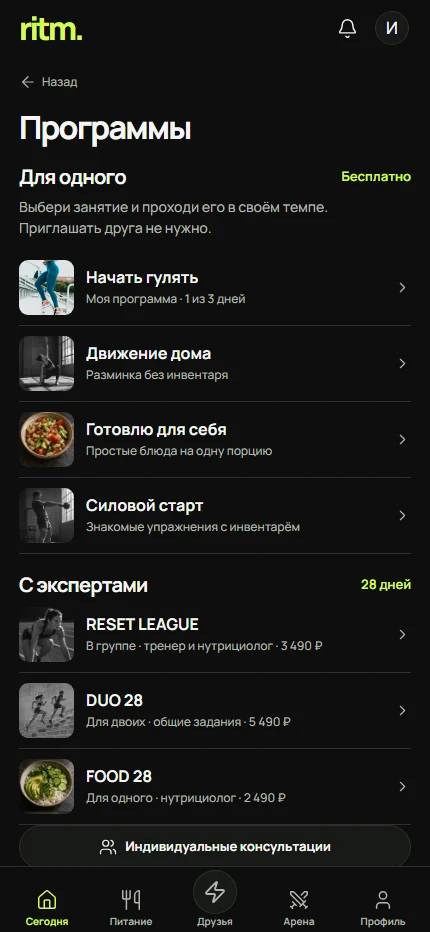
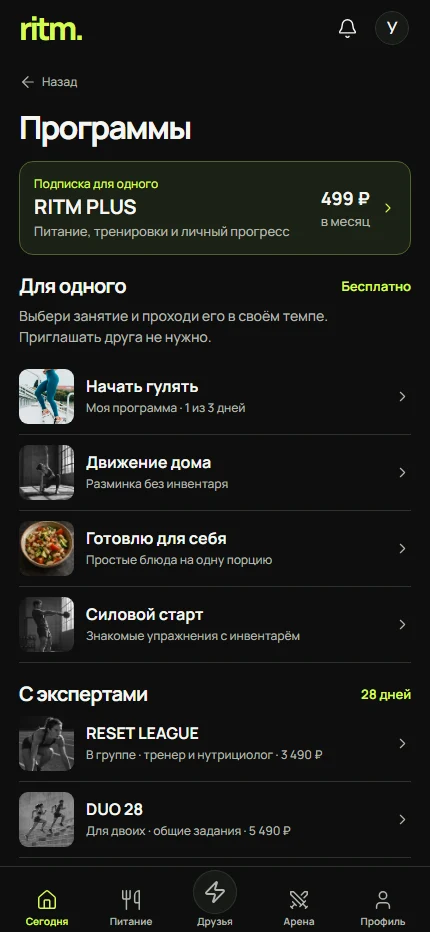
Show the individual RITM PLUS demo price and record interest

diff --git a/docs/meeting/screens/index.html b/docs/meeting/screens/index.html
@@ -1,2 +1,3 @@
 <!DOCTYPE html>
-<html lang="ru"><meta charset="utf-8"/><meta content="width=device-width,initial-scale=1" name="viewport"/><title>ritm. — Экраны приложения</title><link href="../assets/fonts.css" rel="stylesheet"/><style>*{box-sizing:border-box}body{margin:0 auto;background:#0d0e0d;color:#f5f6f2;max-width:1100px;padding:24px 18px 70px;font:500 15px/1.45 "Manrope Variable",sans-serif}header{display:flex;align-items:center;justify-content:space-between}header b{font-size:30px;letter-spacing:-.08em;color:#d5fc53}a{color:#d5fc53;text-underline-offset:.2em}h1{letter-spacing:-.05em;font-size:clamp(31px,6vw,54px);line-height:1.1}h2{border-top:1px solid #353831;padding-top:20px;margin:30px 0 12px}.grid{display:grid;grid-template-columns:repeat(auto-fit,minmax(min(158px,44%),1fr));gap:15px}.image{display:block;max-width:240px;border-radius:14px;overflow:hidden;border:1px solid #343930}img{display:block;width:100%;height:auto}h3{font-size:15px;margin:8px 0 1px}p{margin:4px 0;color:#b1b6ac;font-size:13px}article>p a{display:inline-block;padding:5px 0}</style><header><b>ritm.</b><a href="../?screen=programs">Открыть приложение ↗</a></header><h1>Экраны RITM</h1><p>Снимки работающего приложения. Нажми на экран, чтобы рассмотреть детали.</p><a href="RITM-meeting.pdf">PDF для встречи · Founder Preview 1.0</a><section id="solo"><h2>Начать самостоятельно</h2><div class="grid"><article><a class="image" href="solo-programs-390.webp"><img alt="Выбрать программу для себя" loading="lazy" src="solo-programs-390.webp"/></a><h3>Выбрать программу для себя</h3><p><a href="solo-programs-375.webp">375 px</a> · <a href="solo-programs-390.webp">390 px</a> · <a href="solo-programs-430.webp">430 px</a></p></article><article><a class="image" href="solo-question-390.webp"><img alt="Получить подсказку по двум ответам" loading="lazy" src="solo-question-390.webp"/></a><h3>Получить подсказку по двум ответам</h3><p><a href="solo-question-375.webp">375 px</a> · <a href="solo-question-390.webp">390 px</a> · <a href="solo-question-430.webp">430 px</a></p></article><article><a class="image" href="solo-food-390.webp"><img alt="Выбрать блюдо на одного" loading="lazy" src="solo-food-390.webp"/></a><h3>Выбрать блюдо на одного</h3><p><a href="solo-food-375.webp">375 px</a> · <a href="solo-food-390.webp">390 px</a> · <a href="solo-food-430.webp">430 px</a></p></article><article><a class="image" href="solo-friends-390.webp"><img alt="Предложить другу выбрать ход" loading="lazy" src="solo-friends-390.webp"/></a><h3>Предложить другу выбрать ход</h3><p><a href="solo-friends-375.webp">375 px</a> · <a href="solo-friends-390.webp">390 px</a> · <a href="solo-friends-430.webp">430 px</a></p></article></div></section><section><h2>Первый вход</h2><div class="grid"><article><a class="image" href="welcome-390.webp"><img alt="Первое открытие" loading="lazy" src="welcome-390.webp"/></a><h3>Первое открытие</h3><p><a href="welcome-375.webp">375 px</a> · <a href="welcome-390.webp">390 px</a> · <a href="welcome-430.webp">430 px</a></p></article><article><a class="image" href="invite-code-390.webp"><img alt="Вход по приглашению" loading="lazy" src="invite-code-390.webp"/></a><h3>Вход по приглашению</h3><p><a href="invite-code-390.webp">390 px</a></p></article><article><a class="image" href="start-1-390.webp"><img alt="С чего хочешь начать?" loading="lazy" src="start-1-390.webp"/></a><h3>С чего хочешь начать?</h3><p><a href="start-1-390.webp">390 px</a></p></article><article><a class="image" href="start-2-390.webp"><img alt="Сколько времени есть в день?" loading="lazy" src="start-2-390.webp"/></a><h3>Сколько времени есть в день?</h3><p><a href="start-2-390.webp">390 px</a></p></article><article><a class="image" href="guest-390.webp"><img alt="Гостевой вход" loading="lazy" src="guest-390.webp"/></a><h3>Гостевой вход</h3><p><a href="guest-390.webp">390 px</a></p></article></div></section><section><h2>Сегодня</h2><div class="grid"><article><a class="image" href="today-390.webp"><img alt="В своём ритме" loading="lazy" src="today-390.webp"/></a><h3>В своём ритме</h3><p><a href="today-375.webp">375 px</a> · <a href="today-390.webp">390 px</a> · <a href="today-430.webp">430 px</a></p></article><article><a class="image" href="time-390.webp"><img alt="Доступное время" loading="lazy" src="time-390.webp"/></a><h3>Доступное время</h3><p><a href="time-390.webp">390 px</a></p></article><article><a class="image" href="plan-390.webp"><img alt="Мой план" loading="lazy" src="plan-390.webp"/></a><h3>Мой план</h3><p><a href="plan-390.webp">390 px</a></p></article><article><a class="image" href="ai-390.webp"><img alt="Подстроить план" loading="lazy" src="ai-390.webp"/></a><h3>Подстроить план</h3><p><a href="ai-390.webp">390 px</a></p></article><article><a class="image" href="notifications-390.webp"><img alt="Уведомления" loading="lazy" src="notifications-390.webp"/></a><h3>Уведомления</h3><p><a href="notifications-390.webp">390 px</a></p></article></div></section><section><h2>Питание</h2><div class="grid"><article><a class="image" href="food-390.webp"><img alt="Твоё питание" loading="lazy" src="food-390.webp"/></a><h3>Твоё питание</h3><p><a href="food-375.webp">375 px</a> · <a href="food-390.webp">390 px</a> · <a href="food-430.webp">430 px</a></p></article><article><a class="image" href="pantry-390.webp"><img alt="Из того, что дома" loading="lazy" src="pantry-390.webp"/></a><h3>Из того, что дома</h3><p><a href="pantry-390.webp">390 px</a></p></article><article><a class="image" href="recipe-390.webp"><img alt="Рецепт и порции" loading="lazy" src="recipe-390.webp"/></a><h3>Рецепт и порции</h3><p><a href="recipe-390.webp">390 px</a></p></article><article><a class="image" href="week-390.webp"><img alt="Меню на неделю" loading="lazy" src="week-390.webp"/></a><h3>Меню на неделю</h3><p><a href="week-390.webp">390 px</a></p></article><article><a class="image" href="cart-390.webp"><img alt="Продуктовая корзина" loading="lazy" src="cart-390.webp"/></a><h3>Продуктовая корзина</h3><p><a href="cart-390.webp">390 px</a></p></article></div></section><section><h2>Тренировки</h2><div class="grid"><article><a class="image" href="train-390.webp"><img alt="Твои тренировки" loading="lazy" src="train-390.webp"/></a><h3>Твои тренировки</h3><p><a href="train-375.webp">375 px</a> · <a href="train-390.webp">390 px</a> · <a href="train-430.webp">430 px</a></p></article><article><a class="image" href="work-390.webp"><img alt="Силовой блок" loading="lazy" src="work-390.webp"/></a><h3>Силовой блок</h3><p><a href="work-390.webp">390 px</a></p></article><article><a class="image" href="tech-390.webp"><img alt="Техника и варианты" loading="lazy" src="tech-390.webp"/></a><h3>Техника и варианты</h3><p><a href="tech-390.webp">390 px</a></p></article></div></section><section><h2>PULSE</h2><div class="grid"><article><a class="image" href="pulse-390.webp"><img alt="Твой круг и лента" loading="lazy" src="pulse-390.webp"/></a><h3>Твой круг и лента</h3><p><a href="pulse-375.webp">375 px</a> · <a href="pulse-390.webp">390 px</a> · <a href="pulse-430.webp">430 px</a></p></article><article><a class="image" href="reply-390.webp"><img alt="Ответить своим делом" loading="lazy" src="reply-390.webp"/></a><h3>Ответить своим делом</h3><p><a href="reply-390.webp">390 px</a></p></article><article><a class="image" href="circle-390.webp"><img alt="Управление кругом" loading="lazy" src="circle-390.webp"/></a><h3>Управление кругом</h3><p><a href="circle-390.webp">390 px</a></p></article><article><a class="image" href="leave-390.webp"><img alt="Выход из круга" loading="lazy" src="leave-390.webp"/></a><h3>Выход из круга</h3><p><a href="leave-390.webp">390 px</a></p></article><article><a class="image" href="together-390.webp"><img alt="Совместное время" loading="lazy" src="together-390.webp"/></a><h3>Совместное время</h3><p><a href="together-390.webp">390 px</a></p></article></div></section><section><h2>Арена</h2><div class="grid"><article><a class="image" href="arena-390.webp"><img alt="Арена и счёт" loading="lazy" src="arena-390.webp"/></a><h3>Арена и счёт</h3><p><a href="arena-375.webp">375 px</a> · <a href="arena-390.webp">390 px</a> · <a href="arena-430.webp">430 px</a></p></article><article><a class="image" href="game-390.webp"><img alt="История дуэли" loading="lazy" src="game-390.webp"/></a><h3>История дуэли</h3><p><a href="game-390.webp">390 px</a></p></article><article><a class="image" href="setup-390.webp"><img alt="Новая дуэль" loading="lazy" src="setup-390.webp"/></a><h3>Новая дуэль</h3><p><a href="setup-390.webp">390 px</a></p></article><article><a class="image" href="share-390.webp"><img alt="Приглашение другу" loading="lazy" src="share-390.webp"/></a><h3>Приглашение другу</h3><p><a href="share-390.webp">390 px</a></p></article></div></section><section><h2>Профиль</h2><div class="grid"><article><a class="image" href="dna-1-390.webp"><img alt="Какова твоя цель?" loading="lazy" src="dna-1-390.webp"/></a><h3>Какова твоя цель?</h3><p><a href="dna-1-390.webp">390 px</a></p></article><article><a class="image" href="dna-2-390.webp"><img alt="Какое изменение особенно важно?" loading="lazy" src="dna-2-390.webp"/></a><h3>Какое изменение особенно важно?</h3><p><a href="dna-2-390.webp">390 px</a></p></article><article><a class="image" href="dna-3-390.webp"><img alt="Какой уровень тебе близок?" loading="lazy" src="dna-3-390.webp"/></a><h3>Какой уровень тебе близок?</h3><p><a href="dna-3-390.webp">390 px</a></p></article><article><a class="image" href="dna-4-390.webp"><img alt="Как давно ты тренируешься?" loading="lazy" src="dna-4-390.webp"/></a><h3>Как давно ты тренируешься?</h3><p><a href="dna-4-390.webp">390 px</a></p></article><article><a class="image" href="dna-5-390.webp"><img alt="Сколько времени обычно есть?" loading="lazy" src="dna-5-390.webp"/></a><h3>Сколько времени обычно есть?</h3><p><a href="dna-5-390.webp">390 px</a></p></article><article><a class="image" href="dna-6-390.webp"><img alt="Где удобнее заниматься?" loading="lazy" src="dna-6-390.webp"/></a><h3>Где удобнее заниматься?</h3><p><a href="dna-6-390.webp">390 px</a></p></article><article><a class="image" href="dna-7-390.webp"><img alt="Какое оборудование доступно?" loading="lazy" src="dna-7-390.webp"/></a><h3>Какое оборудование доступно?</h3><p><a href="dna-7-390.webp">390 px</a></p></article><article><a class="image" href="dna-8-390.webp"><img alt="Какую еду выбираешь?" loading="lazy" src="dna-8-390.webp"/></a><h3>Какую еду выбираешь?</h3><p><a href="dna-8-390.webp">390 px</a></p></article><article><a class="image" href="dna-9-390.webp"><img alt="Есть продукты, которые исключить?" loading="lazy" src="dna-9-390.webp"/></a><h3>Есть продукты, которые исключить?</h3><p><a href="dna-9-390.webp">390 px</a></p></article><article><a class="image" href="dna-10-390.webp"><img alt="Что важнее при выборе продуктов?" loading="lazy" src="dna-10-390.webp"/></a><h3>Что важнее при выборе продуктов?</h3><p><a href="dna-10-390.webp">390 px</a></p></article><article><a class="image" href="dna-11-390.webp"><img alt="Что чаще мешает продолжать?" loading="lazy" src="dna-11-390.webp"/></a><h3>Что чаще мешает продолжать?</h3><p><a href="dna-11-390.webp">390 px</a></p></article><article><a class="image" href="dna-12-390.webp"><img alt="Что помогает вернуться?" loading="lazy" src="dna-12-390.webp"/></a><h3>Что помогает вернуться?</h3><p><a href="dna-12-390.webp">390 px</a></p></article><article><a class="image" href="dna-13-390.webp"><img alt="Как хочешь заниматься?" loading="lazy" src="dna-13-390.webp"/></a><h3>Как хочешь заниматься?</h3><p><a href="dna-13-390.webp">390 px</a></p></article><article><a class="image" href="dna-map-390.webp"><img alt="Мои предпочтения" loading="lazy" src="dna-map-390.webp"/></a><h3>Мои предпочтения</h3><p><a href="dna-map-390.webp">390 px</a></p></article><article><a class="image" href="profile-390.webp"><img alt="Личный профиль" loading="lazy" src="profile-390.webp"/></a><h3>Личный профиль</h3><p><a href="profile-375.webp">375 px</a> · <a href="profile-390.webp">390 px</a> · <a href="profile-430.webp">430 px</a></p></article><article><a class="image" href="checkin-390.webp"><img alt="Личные замеры" loading="lazy" src="checkin-390.webp"/></a><h3>Личные замеры</h3><p><a href="checkin-390.webp">390 px</a></p></article><article><a class="image" href="seasonplan-390.webp"><img alt="Настройка сезона" loading="lazy" src="seasonplan-390.webp"/></a><h3>Настройка сезона</h3><p><a href="seasonplan-390.webp">390 px</a></p></article><article><a class="image" href="recap-390.webp"><img alt="Недельный отчёт" loading="lazy" src="recap-390.webp"/></a><h3>Недельный отчёт</h3><p><a href="recap-390.webp">390 px</a></p></article><article><a class="image" href="settings-390.webp"><img alt="Настройки и доступ" loading="lazy" src="settings-390.webp"/></a><h3>Настройки и доступ</h3><p><a href="settings-390.webp">390 px</a></p></article><article><a class="image" href="privacy-390.webp"><img alt="Приватность действий" loading="lazy" src="privacy-390.webp"/></a><h3>Приватность действий</h3><p><a href="privacy-390.webp">390 px</a></p></article></div></section><section><h2>Эксперты</h2><div class="grid"><article><a class="image" href="experts-390.webp"><img alt="Экспертные направления" loading="lazy" src="experts-390.webp"/></a><h3>Экспертные направления</h3><p><a href="experts-375.webp">375 px</a> · <a href="experts-390.webp">390 px</a> · <a href="experts-430.webp">430 px</a></p></article><article><a class="image" href="expert-food-390.webp"><img alt="Нутрициолог" loading="lazy" src="expert-food-390.webp"/></a><h3>Нутрициолог</h3><p><a href="expert-food-390.webp">390 px</a></p></article><article><a class="image" href="expert-train-390.webp"><img alt="Тренер" loading="lazy" src="expert-train-390.webp"/></a><h3>Тренер</h3><p><a href="expert-train-390.webp">390 px</a></p></article></div></section><section><h2>Сезоны</h2><div class="grid"><article><a class="image" href="solo-start-390.webp"><img alt="Личная программа" loading="lazy" src="solo-start-390.webp"/></a><h3>Личная программа</h3><p><a href="solo-start-390.webp">390 px</a></p></article><article><a class="image" href="store-390.webp"><img alt="Личные программы и сезоны" loading="lazy" src="store-390.webp"/></a><h3>Личные программы и сезоны</h3><p><a href="store-375.webp">375 px</a> · <a href="store-390.webp">390 px</a> · <a href="store-430.webp">430 px</a></p></article><article><a class="image" href="food-28-390.webp"><img alt="FOOD 28" loading="lazy" src="food-28-390.webp"/></a><h3>FOOD 28</h3><p><a href="food-28-390.webp">390 px</a></p></article><article><a class="image" href="reset-28-390.webp"><img alt="RESET 28" loading="lazy" src="reset-28-390.webp"/></a><h3>RESET 28</h3><p><a href="reset-28-390.webp">390 px</a></p></article><article><a class="image" href="duo-28-390.webp"><img alt="DUO 28" loading="lazy" src="duo-28-390.webp"/></a><h3>DUO 28</h3><p><a href="duo-28-390.webp">390 px</a></p></article><article><a class="image" href="order-390.webp"><img alt="Заявка на сезон" loading="lazy" src="order-390.webp"/></a><h3>Заявка на сезон</h3><p><a href="order-390.webp">390 px</a></p></article></div></section><section><h2>От приглашения до следующего сезона · Founder Preview 1.0</h2><div class="grid"><article><a class="image" href="choice-guest.webp"><img alt="Гостевой выбор" loading="lazy" src="choice-guest.webp"/></a><h3>Гостевой выбор</h3></article><article><a class="image" href="choice-result.webp"><img alt="Выполненный ход" loading="lazy" src="choice-result.webp"/></a><h3>Выполненный ход</h3></article><article><a class="image" href="offer.webp"><img alt="Условия RESET LEAGUE" loading="lazy" src="offer.webp"/></a><h3>Условия RESET LEAGUE</h3></article><article><a class="image" href="payment.webp"><img alt="Подтверждение учебной оплаты" loading="lazy" src="payment.webp"/></a><h3>Подтверждение учебной оплаты</h3></article><article><a class="image" href="support.webp"><img alt="Ответ нутрициолога" loading="lazy" src="support.webp"/></a><h3>Ответ нутрициолога</h3></article><article><a class="image" href="desk.webp"><img alt="Кабинет специалиста" loading="lazy" src="desk.webp"/></a><h3>Кабинет специалиста</h3></article><article><a class="image" href="journey.webp"><img alt="История сезонов" loading="lazy" src="journey.webp"/></a><h3>История сезонов</h3></article></div></section></html>
+
+<html lang="ru"><meta charset="utf-8"/><meta content="width=device-width,initial-scale=1" name="viewport"/><title>ritm. — Экраны приложения</title><link href="../assets/fonts.css" rel="stylesheet"/><style>*{box-sizing:border-box}body{margin:0 auto;background:#0d0e0d;color:#f5f6f2;max-width:1100px;padding:24px 18px 70px;font:500 15px/1.45 "Manrope Variable",sans-serif}header{display:flex;align-items:center;justify-content:space-between}header b{font-size:30px;letter-spacing:-.08em;color:#d5fc53}a{color:#d5fc53;text-underline-offset:.2em}h1{letter-spacing:-.05em;font-size:clamp(31px,6vw,54px);line-height:1.1}h2{border-top:1px solid #353831;padding-top:20px;margin:30px 0 12px}.grid{display:grid;grid-template-columns:repeat(auto-fit,minmax(min(158px,44%),1fr));gap:15px}.image{display:block;max-width:240px;border-radius:14px;overflow:hidden;border:1px solid #343930}img{display:block;width:100%;height:auto}h3{font-size:15px;margin:8px 0 1px}p{margin:4px 0;color:#b1b6ac;font-size:13px}article>p a{display:inline-block;padding:5px 0}</style><header><b>ritm.</b><a href="../?screen=programs">Открыть приложение ↗</a></header><h1>Экраны RITM</h1><p>Снимки работающего приложения. Нажми на экран, чтобы рассмотреть детали.</p><a href="RITM-meeting.pdf">PDF для встречи · Founder Preview 1.0</a><section id="solo"><h2>Начать самостоятельно</h2><div class="grid"><article><a class="image" href="solo-programs-390.webp"><img alt="Выбрать программу для себя" loading="lazy" src="solo-programs-390.webp"/></a><h3>Выбрать программу для себя</h3><p><a href="solo-programs-375.webp">375 px</a> · <a href="solo-programs-390.webp">390 px</a> · <a href="solo-programs-430.webp">430 px</a></p></article><article><a class="image" href="plus-390.webp"><img alt="RITM PLUS · тариф для одного" loading="lazy" src="plus-390.webp"/></a><h3>Личный тариф за 499 ₽ в месяц</h3><p><a href="plus-375.webp">375 px</a> · <a href="plus-390.webp">390 px</a> · <a href="plus-430.webp">430 px</a></p></article><article><a class="image" href="solo-question-390.webp"><img alt="Получить подсказку по двум ответам" loading="lazy" src="solo-question-390.webp"/></a><h3>Получить подсказку по двум ответам</h3><p><a href="solo-question-375.webp">375 px</a> · <a href="solo-question-390.webp">390 px</a> · <a href="solo-question-430.webp">430 px</a></p></article><article><a class="image" href="solo-food-390.webp"><img alt="Выбрать блюдо на одного" loading="lazy" src="solo-food-390.webp"/></a><h3>Выбрать блюдо на одного</h3><p><a href="solo-food-375.webp">375 px</a> · <a href="solo-food-390.webp">390 px</a> · <a href="solo-food-430.webp">430 px</a></p></article><article><a class="image" href="solo-friends-390.webp"><img alt="Предложить другу выбрать ход" loading="lazy" src="solo-friends-390.webp"/></a><h3>Предложить другу выбрать ход</h3><p><a href="solo-friends-375.webp">375 px</a> · <a href="solo-friends-390.webp">390 px</a> · <a href="solo-friends-430.webp">430 px</a></p></article></div></section><section><h2>Первый вход</h2><div class="grid"><article><a class="image" href="welcome-390.webp"><img alt="Первое открытие" loading="lazy" src="welcome-390.webp"/></a><h3>Первое открытие</h3><p><a href="welcome-375.webp">375 px</a> · <a href="welcome-390.webp">390 px</a> · <a href="welcome-430.webp">430 px</a></p></article><article><a class="image" href="invite-code-390.webp"><img alt="Вход по приглашению" loading="lazy" src="invite-code-390.webp"/></a><h3>Вход по приглашению</h3><p><a href="invite-code-390.webp">390 px</a></p></article><article><a class="image" href="start-1-390.webp"><img alt="С чего хочешь начать?" loading="lazy" src="start-1-390.webp"/></a><h3>С чего хочешь начать?</h3><p><a href="start-1-390.webp">390 px</a></p></article><article><a class="image" href="start-2-390.webp"><img alt="Сколько времени есть в день?" loading="lazy" src="start-2-390.webp"/></a><h3>Сколько времени есть в день?</h3><p><a href="start-2-390.webp">390 px</a></p></article><article><a class="image" href="guest-390.webp"><img alt="Гостевой вход" loading="lazy" src="guest-390.webp"/></a><h3>Гостевой вход</h3><p><a href="guest-390.webp">390 px</a></p></article></div></section><section><h2>Сегодня</h2><div class="grid"><article><a class="image" href="today-390.webp"><img alt="В своём ритме" loading="lazy" src="today-390.webp"/></a><h3>В своём ритме</h3><p><a href="today-375.webp">375 px</a> · <a href="today-390.webp">390 px</a> · <a href="today-430.webp">430 px</a></p></article><article><a class="image" href="time-390.webp"><img alt="Доступное время" loading="lazy" src="time-390.webp"/></a><h3>Доступное время</h3><p><a href="time-390.webp">390 px</a></p></article><article><a class="image" href="plan-390.webp"><img alt="Мой план" loading="lazy" src="plan-390.webp"/></a><h3>Мой план</h3><p><a href="plan-390.webp">390 px</a></p></article><article><a class="image" href="ai-390.webp"><img alt="Подстроить план" loading="lazy" src="ai-390.webp"/></a><h3>Подстроить план</h3><p><a href="ai-390.webp">390 px</a></p></article><article><a class="image" href="notifications-390.webp"><img alt="Уведомления" loading="lazy" src="notifications-390.webp"/></a><h3>Уведомления</h3><p><a href="notifications-390.webp">390 px</a></p></article></div></section><section><h2>Питание</h2><div class="grid"><article><a class="image" href="food-390.webp"><img alt="Твоё питание" loading="lazy" src="food-390.webp"/></a><h3>Твоё питание</h3><p><a href="food-375.webp">375 px</a> · <a href="food-390.webp">390 px</a> · <a href="food-430.webp">430 px</a></p></article><article><a class="image" href="pantry-390.webp"><img alt="Из того, что дома" loading="lazy" src="pantry-390.webp"/></a><h3>Из того, что дома</h3><p><a href="pantry-390.webp">390 px</a></p></article><article><a class="image" href="recipe-390.webp"><img alt="Рецепт и порции" loading="lazy" src="recipe-390.webp"/></a><h3>Рецепт и порции</h3><p><a href="recipe-390.webp">390 px</a></p></article><article><a class="image" href="week-390.webp"><img alt="Меню на неделю" loading="lazy" src="week-390.webp"/></a><h3>Меню на неделю</h3><p><a href="week-390.webp">390 px</a></p></article><article><a class="image" href="cart-390.webp"><img alt="Продуктовая корзина" loading="lazy" src="cart-390.webp"/></a><h3>Продуктовая корзина</h3><p><a href="cart-390.webp">390 px</a></p></article></div></section><section><h2>Тренировки</h2><div class="grid"><article><a class="image" href="train-390.webp"><img alt="Твои тренировки" loading="lazy" src="train-390.webp"/></a><h3>Твои тренировки</h3><p><a href="train-375.webp">375 px</a> · <a href="train-390.webp">390 px</a> · <a href="train-430.webp">430 px</a></p></article><article><a class="image" href="work-390.webp"><img alt="Силовой блок" loading="lazy" src="work-390.webp"/></a><h3>Силовой блок</h3><p><a href="work-390.webp">390 px</a></p></article><article><a class="image" href="tech-390.webp"><img alt="Техника и варианты" loading="lazy" src="tech-390.webp"/></a><h3>Техника и варианты</h3><p><a href="tech-390.webp">390 px</a></p></article></div></section><section><h2>PULSE</h2><div class="grid"><article><a class="image" href="pulse-390.webp"><img alt="Твой круг и лента" loading="lazy" src="pulse-390.webp"/></a><h3>Твой круг и лента</h3><p><a href="pulse-375.webp">375 px</a> · <a href="pulse-390.webp">390 px</a> · <a href="pulse-430.webp">430 px</a></p></article><article><a class="image" href="reply-390.webp"><img alt="Ответить своим делом" loading="lazy" src="reply-390.webp"/></a><h3>Ответить своим делом</h3><p><a href="reply-390.webp">390 px</a></p></article><article><a class="image" href="circle-390.webp"><img alt="Управление кругом" loading="lazy" src="circle-390.webp"/></a><h3>Управление кругом</h3><p><a href="circle-390.webp">390 px</a></p></article><article><a class="image" href="leave-390.webp"><img alt="Выход из круга" loading="lazy" src="leave-390.webp"/></a><h3>Выход из круга</h3><p><a href="leave-390.webp">390 px</a></p></article><article><a class="image" href="together-390.webp"><img alt="Совместное время" loading="lazy" src="together-390.webp"/></a><h3>Совместное время</h3><p><a href="together-390.webp">390 px</a></p></article></div></section><section><h2>Арена</h2><div class="grid"><article><a class="image" href="arena-390.webp"><img alt="Арена и счёт" loading="lazy" src="arena-390.webp"/></a><h3>Арена и счёт</h3><p><a href="arena-375.webp">375 px</a> · <a href="arena-390.webp">390 px</a> · <a href="arena-430.webp">430 px</a></p></article><article><a class="image" href="game-390.webp"><img alt="История дуэли" loading="lazy" src="game-390.webp"/></a><h3>История дуэли</h3><p><a href="game-390.webp">390 px</a></p></article><article><a class="image" href="setup-390.webp"><img alt="Новая дуэль" loading="lazy" src="setup-390.webp"/></a><h3>Новая дуэль</h3><p><a href="setup-390.webp">390 px</a></p></article><article><a class="image" href="share-390.webp"><img alt="Приглашение другу" loading="lazy" src="share-390.webp"/></a><h3>Приглашение другу</h3><p><a href="share-390.webp">390 px</a></p></article></div></section><section><h2>Профиль</h2><div class="grid"><article><a class="image" href="dna-1-390.webp"><img alt="Какова твоя цель?" loading="lazy" src="dna-1-390.webp"/></a><h3>Какова твоя цель?</h3><p><a href="dna-1-390.webp">390 px</a></p></article><article><a class="image" href="dna-2-390.webp"><img alt="Какое изменение особенно важно?" loading="lazy" src="dna-2-390.webp"/></a><h3>Какое изменение особенно важно?</h3><p><a href="dna-2-390.webp">390 px</a></p></article><article><a class="image" href="dna-3-390.webp"><img alt="Какой уровень тебе близок?" loading="lazy" src="dna-3-390.webp"/></a><h3>Какой уровень тебе близок?</h3><p><a href="dna-3-390.webp">390 px</a></p></article><article><a class="image" href="dna-4-390.webp"><img alt="Как давно ты тренируешься?" loading="lazy" src="dna-4-390.webp"/></a><h3>Как давно ты тренируешься?</h3><p><a href="dna-4-390.webp">390 px</a></p></article><article><a class="image" href="dna-5-390.webp"><img alt="Сколько времени обычно есть?" loading="lazy" src="dna-5-390.webp"/></a><h3>Сколько времени обычно есть?</h3><p><a href="dna-5-390.webp">390 px</a></p></article><article><a class="image" href="dna-6-390.webp"><img alt="Где удобнее заниматься?" loading="lazy" src="dna-6-390.webp"/></a><h3>Где удобнее заниматься?</h3><p><a href="dna-6-390.webp">390 px</a></p></article><article><a class="image" href="dna-7-390.webp"><img alt="Какое оборудование доступно?" loading="lazy" src="dna-7-390.webp"/></a><h3>Какое оборудование доступно?</h3><p><a href="dna-7-390.webp">390 px</a></p></article><article><a class="image" href="dna-8-390.webp"><img alt="Какую еду выбираешь?" loading="lazy" src="dna-8-390.webp"/></a><h3>Какую еду выбираешь?</h3><p><a href="dna-8-390.webp">390 px</a></p></article><article><a class="image" href="dna-9-390.webp"><img alt="Есть продукты, которые исключить?" loading="lazy" src="dna-9-390.webp"/></a><h3>Есть продукты, которые исключить?</h3><p><a href="dna-9-390.webp">390 px</a></p></article><article><a class="image" href="dna-10-390.webp"><img alt="Что важнее при выборе продуктов?" loading="lazy" src="dna-10-390.webp"/></a><h3>Что важнее при выборе продуктов?</h3><p><a href="dna-10-390.webp">390 px</a></p></article><article><a class="image" href="dna-11-390.webp"><img alt="Что чаще мешает продолжать?" loading="lazy" src="dna-11-390.webp"/></a><h3>Что чаще мешает продолжать?</h3><p><a href="dna-11-390.webp">390 px</a></p></article><article><a class="image" href="dna-12-390.webp"><img alt="Что помогает вернуться?" loading="lazy" src="dna-12-390.webp"/></a><h3>Что помогает вернуться?</h3><p><a href="dna-12-390.webp">390 px</a></p></article><article><a class="image" href="dna-13-390.webp"><img alt="Как хочешь заниматься?" loading="lazy" src="dna-13-390.webp"/></a><h3>Как хочешь заниматься?</h3><p><a href="dna-13-390.webp">390 px</a></p></article><article><a class="image" href="dna-map-390.webp"><img alt="Мои предпочтения" loading="lazy" src="dna-map-390.webp"/></a><h3>Мои предпочтения</h3><p><a href="dna-map-390.webp">390 px</a></p></article><article><a class="image" href="profile-390.webp"><img alt="Личный профиль" loading="lazy" src="profile-390.webp"/></a><h3>Личный профиль</h3><p><a href="profile-375.webp">375 px</a> · <a href="profile-390.webp">390 px</a> · <a href="profile-430.webp">430 px</a></p></article><article><a class="image" href="checkin-390.webp"><img alt="Личные замеры" loading="lazy" src="checkin-390.webp"/></a><h3>Личные замеры</h3><p><a href="checkin-390.webp">390 px</a></p></article><article><a class="image" href="seasonplan-390.webp"><img alt="Настройка сезона" loading="lazy" src="seasonplan-390.webp"/></a><h3>Настройка сезона</h3><p><a href="seasonplan-390.webp">390 px</a></p></article><article><a class="image" href="recap-390.webp"><img alt="Недельный отчёт" loading="lazy" src="recap-390.webp"/></a><h3>Недельный отчёт</h3><p><a href="recap-390.webp">390 px</a></p></article><article><a class="image" href="settings-390.webp"><img alt="Настройки и доступ" loading="lazy" src="settings-390.webp"/></a><h3>Настройки и доступ</h3><p><a href="settings-390.webp">390 px</a></p></article><article><a class="image" href="privacy-390.webp"><img alt="Приватность действий" loading="lazy" src="privacy-390.webp"/></a><h3>Приватность действий</h3><p><a href="privacy-390.webp">390 px</a></p></article></div></section><section><h2>Эксперты</h2><div class="grid"><article><a class="image" href="experts-390.webp"><img alt="Экспертные направления" loading="lazy" src="experts-390.webp"/></a><h3>Экспертные направления</h3><p><a href="experts-375.webp">375 px</a> · <a href="experts-390.webp">390 px</a> · <a href="experts-430.webp">430 px</a></p></article><article><a class="image" href="expert-food-390.webp"><img alt="Нутрициолог" loading="lazy" src="expert-food-390.webp"/></a><h3>Нутрициолог</h3><p><a href="expert-food-390.webp">390 px</a></p></article><article><a class="image" href="expert-train-390.webp"><img alt="Тренер" loading="lazy" src="expert-train-390.webp"/></a><h3>Тренер</h3><p><a href="expert-train-390.webp">390 px</a></p></article></div></section><section><h2>Сезоны</h2><div class="grid"><article><a class="image" href="solo-start-390.webp"><img alt="Личная программа" loading="lazy" src="solo-start-390.webp"/></a><h3>Личная программа</h3><p><a href="solo-start-390.webp">390 px</a></p></article><article><a class="image" href="store-390.webp"><img alt="Личные программы и сезоны" loading="lazy" src="store-390.webp"/></a><h3>Личные программы и сезоны</h3><p><a href="store-375.webp">375 px</a> · <a href="store-390.webp">390 px</a> · <a href="store-430.webp">430 px</a></p></article><article><a class="image" href="food-28-390.webp"><img alt="FOOD 28" loading="lazy" src="food-28-390.webp"/></a><h3>FOOD 28</h3><p><a href="food-28-390.webp">390 px</a></p></article><article><a class="image" href="reset-28-390.webp"><img alt="RESET 28" loading="lazy" src="reset-28-390.webp"/></a><h3>RESET 28</h3><p><a href="reset-28-390.webp">390 px</a></p></article><article><a class="image" href="duo-28-390.webp"><img alt="DUO 28" loading="lazy" src="duo-28-390.webp"/></a><h3>DUO 28</h3><p><a href="duo-28-390.webp">390 px</a></p></article><article><a class="image" href="order-390.webp"><img alt="Заявка на сезон" loading="lazy" src="order-390.webp"/></a><h3>Заявка на сезон</h3><p><a href="order-390.webp">390 px</a></p></article></div></section><section><h2>От приглашения до следующего сезона · Founder Preview 1.0</h2><div class="grid"><article><a class="image" href="choice-guest.webp"><img alt="Гостевой выбор" loading="lazy" src="choice-guest.webp"/></a><h3>Гостевой выбор</h3></article><article><a class="image" href="choice-result.webp"><img alt="Выполненный ход" loading="lazy" src="choice-result.webp"/></a><h3>Выполненный ход</h3></article><article><a class="image" href="offer.webp"><img alt="Условия RESET LEAGUE" loading="lazy" src="offer.webp"/></a><h3>Условия RESET LEAGUE</h3></article><article><a class="image" href="payment.webp"><img alt="Подтверждение учебной оплаты" loading="lazy" src="payment.webp"/></a><h3>Подтверждение учебной оплаты</h3></article><article><a class="image" href="support.webp"><img alt="Ответ нутрициолога" loading="lazy" src="support.webp"/></a><h3>Ответ нутрициолога</h3></article><article><a class="image" href="desk.webp"><img alt="Кабинет специалиста" loading="lazy" src="desk.webp"/></a><h3>Кабинет специалиста</h3></article><article><a class="image" href="journey.webp"><img alt="История сезонов" loading="lazy" src="journey.webp"/></a><h3>История сезонов</h3></article></div></section></html>

diff --git a/docs/meeting/assets/edition/programs.js b/docs/meeting/assets/edition/programs.js
@@ -14,6 +14,8 @@ const SoloPlans = {
     steps:['Подготовь инвентарь для освоенного упражнения.', 'Открой силовой блок и выполни занятие по своему плану.', 'Запиши подходы и повторы. Программа завершится после трёх тренировочных дней.']}
 };
 
+const plusMonthlyRubles = 499;
+
 function createProgramViews({state,photo,I,b,e,label,head,num}) {
   const current = () => Object.keys(SoloPlans).find(id=>state().solo?.[id]?.selected);
   const recommended = () => Object.keys(SoloPlans).find(id=>SoloPlans[id].goal===state().dna?.goal) || 'studio';
@@ -21,6 +23,29 @@ function createProgramViews({state,photo,I,b,e,label,head,num}) {
   function row(action, title, note, image) {
     return '<button class="program-row" data-a="'+e(action)+'">'+photo(image,'','program-thumb')+
       '<span><strong>'+e(title)+'</strong><small>'+e(note)+'</small></span>'+I('chevron-right',17)+'</button>';
+  }
+  function plusCard() {
+    const saved=state().interest?.includes('platform:plus');
+    return '<button type="button" class="plus-card" data-a="go:plus"><span><small>Подписка для одного</small><strong>RITM PLUS</strong>'+
+      '<span>'+ (saved?'Интерес сохранён':'Питание, тренировки и личный прогресс') +'</span></span>'+
+      '<b>'+num(plusMonthlyRubles)+' ₽<small>в месяц</small></b>'+I('chevron-right',16)+'</button>';
+  }
+  function plus() {
+    const saved=state().interest?.includes('platform:plus');
+    const features=[
+      ['utensils','Меню для одного','Подбор блюд на неделю с учётом бюджета и продуктов дома.'],
+      ['dumbbell','Тренировки по твоему графику','Варианты занятий под свободное время и доступный инвентарь.'],
+      ['activity','Личный прогресс','Сводка по неделям покажет, как часто удавалось придерживаться плана.']
+    ];
+    return head('RITM PLUS','Подписка для одного')+
+      '<p class="plus-price"><strong>'+num(plusMonthlyRubles)+' ₽</strong> в месяц</p>'+
+      '<p class="program-note">Тестовая цена для одного человека. Занимаешься самостоятельно, в своём темпе.</p>'+
+      '<h2>Что планируем включить</h2>'+features.map(([icon,title,desc])=>
+        '<div class="plus-feature">'+I(icon,20)+'<div><strong>'+e(title)+'</strong><small>'+e(desc)+'</small></div></div>').join('')+
+      '<p class="program-note">Тариф готовится к запуску. Сейчас можно отметить интерес к этой цене. Оплаты и автопродления пока нет.</p>'+
+      (saved?'<p class="plus-saved" role="status">'+I('check',18)+'Интерес к тарифу сохранён</p>':
+        b('Мне подходит за '+num(plusMonthlyRubles)+' ₽ в месяц','interest:platform:plus','btn full'))+
+      b('Посмотреть сезон с нутрициологом','product:FOOD','textbtn full');
   }
   function list() {
     const preferred=current()||recommended();
@@ -35,7 +60,7 @@ function createProgramViews({state,photo,I,b,e,label,head,num}) {
     const seasons=order.filter(k=>Object.hasOwn(Catalog,k)).map(k=>{
       const x=Catalog[k];return row('product:'+k,k==='RESET'?'RESET LEAGUE':k+' 28',info[k]+' · '+num(x.price)+' ₽',x.pic);
     }).join('');
-    return head('Программы')+'<div class="program-heading"><h2>Для одного</h2><span>Бесплатно</span></div>'+
+    return head('Программы')+plusCard()+'<div class="program-heading"><h2>Для одного</h2><span>Бесплатно</span></div>'+
       '<p class="program-note">Выбери занятие и проходи его в своём темпе. Приглашать друга не нужно.</p>'+solo+
       '<div class="program-heading"><h2>С экспертами</h2><span>28 дней</span></div>'+seasons+
       b('Индивидуальные консультации','go:experts','linebtn full','users')+b('Подстроить план','go:ai','textbtn','sliders-horizontal');
@@ -55,6 +80,6 @@ function createProgramViews({state,photo,I,b,e,label,head,num}) {
     if(id){const progress=state().solo[id];return row('solo:'+id,SoloPlans[id].title,'Моя программа · '+progress.days+' из 3 дней',SoloPlans[id].photo);}
     return '';
   }
-  return {list,detail,home,current,recommended};
+  return {list,detail,plus,home,current,recommended};
 }
 

diff --git a/docs/meeting/premium.js b/docs/meeting/premium.js
@@ -47,7 +47,7 @@ const incoming=()=>S.pulse.filter(x=>x.person!==S.profile.id&&x.source&&!x.answe
 const allows=m=>{const p=S.dna||{},limit=p.limit||'';if(limit==='Указать свои'||limit.startsWith('Свои:'))return false;if(p.food==='Растительную'&&!m.plant||p.food==='Без мяса'&&!m.veg)return false;return !m.all.includes(limit)};
 const dishes=()=>Meals.filter(allows),recipe=id=>Meals.find(m=>m.id===id),work=id=>Workouts.find(x=>x.id===id)||Workouts[0];
 const logo='<span class="wordmark">ritm.</span>';
-function activeTab(){if(['store','solo','product'].includes(view)){
+function activeTab(){if(['store','solo','product','plus'].includes(view)){
   const origin=[...stack].reverse().find(([name])=>navs.some(([id])=>id===name));
   return origin?.[0]||'today';
 }if(['meal','basket','food'].includes(view))return 'food';if(['game','arena'].includes(view))return 'arena';if(['pulse','invite','share','choice','choice-compose'].includes(view)||(view==='action'&&reply))return 'pulse';if(['profile','dna-map','recap','checkin','settings','privacy','store','product','expert','experts','seasonplan','season-story','next-season','league-desk','league-review','league-support'].includes(view))return 'profile';return 'today';}
@@ -274,7 +274,7 @@ function renderMisc(){switch(view){
  case 'name':return head('Как тебя называть?','Профиль')+field('startname','Твоё имя',S.profile.name,'text','maxlength="30" autocomplete="given-name"')+b('Продолжить','named','btn full')+b('Назад','back','textbtn full');
  default:return head('Твой день')+b('На главную','go:today');
  }}
-const screens={choice:()=>choice.detail(detail),'choice-compose':choice.composer,today,food,pulse,arena,profile,intro,dna,'dna-map':dnaMap,action:actionScreen,setup,game,meal,train,work:workout,experts,expert,store:programs.list,solo:()=>programs.detail(detail),product,recap};
+const screens={choice:()=>choice.detail(detail),'choice-compose':choice.composer,today,food,pulse,arena,profile,intro,dna,'dna-map':dnaMap,action:actionScreen,setup,game,meal,train,work:workout,experts,expert,store:programs.list,plus:programs.plus,solo:()=>programs.detail(detail),product,recap};
 const lifecycle=demo?createRitmLifecycle({read,save,route,draw,b,e,I,label,muted,head,num,price:Catalog.RESET.price,participantName:()=>S.profile.name||'Участник',hasSeat:seatActive,renewal:()=>S.demo_renewal}):null;
 if(lifecycle)Object.assign(screens,{'season-story':lifecycle.journey,'next-season':lifecycle.offer,'league-desk':lifecycle.desk,'league-review':()=>lifecycle.review(detail),'league-support':lifecycle.support});
 let lastPulseSource='',offerObserver;
@@ -417,7 +417,11 @@ async function init(){S=await api('/api/me');if(!S.allocation)await write('alloc
  if(await choice.initialize(query)){/* The invitation supplies the first screen for guests. */}
  else if(pendingGuest){try{guestInfo=await api('/api/invite?token='+encodeURIComponent(pendingGuest));view='invite';}catch(err){clearInvite();notice(err.message);}}
  else if(demo&&['season-story','league-desk'].includes(query.get('screen'))){await seed();save('entered',true);view=query.get('screen');stack=[['profile','']];}
- else if(query.get('screen')==='programs'){view='store';stack=[[read('entered')||S.profile.goal?'today':'intro','']];}
+ else if(['programs','plus'].includes(query.get('screen'))){
+   view=query.get('screen')==='plus'?'plus':'store';
+   stack=[[read('entered')||S.profile.goal?'today':'intro','']];
+   if(view==='plus')stack.push(['store','']);
+ }
  else if(demo&&query.get('screen')==='reset-league'){await seed();save('entered',true);view='product';detail='RESET';stack=[['today',''],['arena','']];}
  else if(demo&&new URLSearchParams(location.search).get('screen')==='today'){await seed();save('entered',true);view='today';if(query.get('feature')==='choice')choice.start();}
  else if(readQuestionnaire()&&!readQuestionnaire().paused){

diff --git a/docs/meeting/index.html b/docs/meeting/index.html
@@ -1,3 +1,3 @@
-<!doctype html><html lang="ru"><head><meta charset="utf-8"><meta name="viewport" content="width=device-width, initial-scale=1, viewport-fit=cover"><meta name="theme-color" content="#0D0E0D"><meta name="apple-mobile-web-app-capable" content="yes"><meta name="mobile-web-app-capable" content="yes"><meta name="apple-mobile-web-app-status-bar-style" content="black-translucent"><meta name="apple-mobile-web-app-title" content="RITM"><title>ritm. — Твой день</title><link rel="icon" href="icon.png"><link rel="apple-touch-icon" sizes="180x180" href="assets/edition/apple-touch.png"><link rel="manifest" href="manifest.webmanifest?v=system1"><link rel="stylesheet" href="assets/fonts.css"><link rel="stylesheet" href="premium.css"><link rel="stylesheet" href="assets/home/home.css"><link rel="stylesheet" href="assets/edition/app.css?v=solo1"><link rel="stylesheet" href="assets/edition/lifecycle.css?v=meeting3"></head><body>
+<!doctype html><html lang="ru"><head><meta charset="utf-8"><meta name="viewport" content="width=device-width, initial-scale=1, viewport-fit=cover"><meta name="theme-color" content="#0D0E0D"><meta name="apple-mobile-web-app-capable" content="yes"><meta name="mobile-web-app-capable" content="yes"><meta name="apple-mobile-web-app-status-bar-style" content="black-translucent"><meta name="apple-mobile-web-app-title" content="RITM"><title>ritm. — Твой день</title><link rel="icon" href="icon.png"><link rel="apple-touch-icon" sizes="180x180" href="assets/edition/apple-touch.png"><link rel="manifest" href="manifest.webmanifest?v=system1"><link rel="stylesheet" href="assets/fonts.css"><link rel="stylesheet" href="premium.css"><link rel="stylesheet" href="assets/home/home.css"><link rel="stylesheet" href="assets/edition/app.css?v=plus1"><link rel="stylesheet" href="assets/edition/lifecycle.css?v=meeting3"></head><body>
 <a class="skip" href="#content">К содержимому</a><div class="shell"><header id="head"><span class="wordmark">ritm.</span></header><main id="content" tabindex="-1"><div class="splash"><span class="wordmark">ritm.</span><svg viewBox="0 0 120 34" aria-hidden="true"><path d="M2 18h38l9-13 11 26 11-19 7 6h40"/></svg><noscript><a style="color:#D5FC53" href="./screens/">Посмотреть экраны RITM без JavaScript</a></noscript><p role="status">Открываем твой день…</p><div class="skeleton"></div></div></main><nav id="nav" aria-label="Основная навигация"></nav></div><div id="toast" role="status" aria-live="polite"></div>
-<script>window.RITM_PREMIUM=true;</script><script src="meeting-start.js?v=solo1"></script><script src="browser.js?rev=solo1"></script><script src="assets/icons.js"></script><script src="content.js?v=system1"></script><script src="season.js"></script><script src="app.js"></script><script src="assets/edition/visual.js"></script><script src="assets/home/view.js?v=solo1"></script><script src="assets/edition/choice.js?v=solo1"></script><script src="assets/edition/lifecycle.js?v=meeting2"></script><script src="assets/edition/programs.js?v=solo1"></script><script src="premium.js?rev=solo1"></script></body></html>
+<script>window.RITM_PREMIUM=true;</script><script src="meeting-start.js?v=solo1"></script><script src="browser.js?rev=plus1"></script><script src="assets/icons.js"></script><script src="content.js?v=system1"></script><script src="season.js"></script><script src="app.js"></script><script src="assets/edition/visual.js"></script><script src="assets/home/view.js?v=solo1"></script><script src="assets/edition/choice.js?v=solo1"></script><script src="assets/edition/lifecycle.js?v=meeting2"></script><script src="assets/edition/programs.js?v=plus1"></script><script src="premium.js?rev=plus1"></script></body></html>

diff --git a/docs/meeting/assets/edition/app.css b/docs/meeting/assets/edition/app.css
@@ -239,3 +239,17 @@ button .i {display:block;flex-shrink:0}
 .screen .program-heading h2,.screen .pulse-invitation h2 {margin:0}
 body[data-screen="food"] .segmented .chip {white-space:nowrap;padding-inline:5px}
 .entry-options {flex-wrap:wrap}
+
+.plus-card {display:flex;align-items:center;gap:10px;width:100%;padding:13px 14px;margin:8px 0 0;text-align:left;border:1px solid var(--pulse-line);border-radius:14px;background:var(--pulse-surface)}
+.plus-card>span {flex:1;min-width:0;display:grid;gap:3px}
+.plus-card>span>small {color:var(--accent);font-size:12px}
+.plus-card>span>strong {font-size:20px;line-height:1.2}
+.plus-card>span>span,.plus-card>b>small,.plus-feature small {color:var(--quiet);font-size:13px;font-weight:500}
+.plus-card>b {font-size:18px;white-space:nowrap}
+.plus-card>b>small,.plus-feature small {display:block}
+.plus-card>.i,.plus-feature>.i,.plus-saved {color:var(--accent)}
+.plus-price {margin:8px 0;color:var(--quiet)}
+.plus-price strong {color:var(--accent);font-size:30px}
+.plus-feature {display:flex;align-items:center;gap:13px;padding:12px 0;border-bottom:1px solid var(--divider)}
+.plus-feature small {margin-top:3px;line-height:1.45}
+.plus-saved {display:flex;align-items:center;justify-content:center;gap:8px;min-height:46px}

diff --git a/docs/meeting/browser.js b/docs/meeting/browser.js
@@ -11,7 +11,7 @@ const previewActor=sessionStorage.getItem(sandboxStorageKey)==='friend'?'friend'
 let previewWorker,warmTimer;
 function worker(){
   if (!previewWorker) {
-    previewWorker=new Worker('./worker.js?rev=solo1'+(homeScenario?'&scenario=home':''));
+    previewWorker=new Worker('./worker.js?rev=plus1'+(homeScenario?'&scenario=home':''));
     previewWorker.onmessage=receive;previewWorker.onerror=workerError;
   }
   return previewWorker;

diff --git a/docs/meeting/journey.py b/docs/meeting/journey.py
@@ -63,7 +63,9 @@ def operate(c,p,v,b,t):
         else:c.execute('DELETE FROM cheers WHERE circle=? AND action=? AND person=?',(g,a,p))
     elif v=='interest':
         role=b.get('role');kind=b.get('kind')
-        if role not in ('train','food','ai') or kind not in ('consult','program','event','plus'):raise ValueError('Предложение недоступно.')
+        expert_offer=role in ('train','food','ai') and kind in ('consult','program','event','plus')
+        if not expert_offer and (role,kind)!=('platform','plus'):
+            raise ValueError('Предложение недоступно.')
         c.execute('INSERT OR IGNORE INTO expert_interest VALUES(?,?,?,?)',(p,role,kind,t))
     return {}
 
